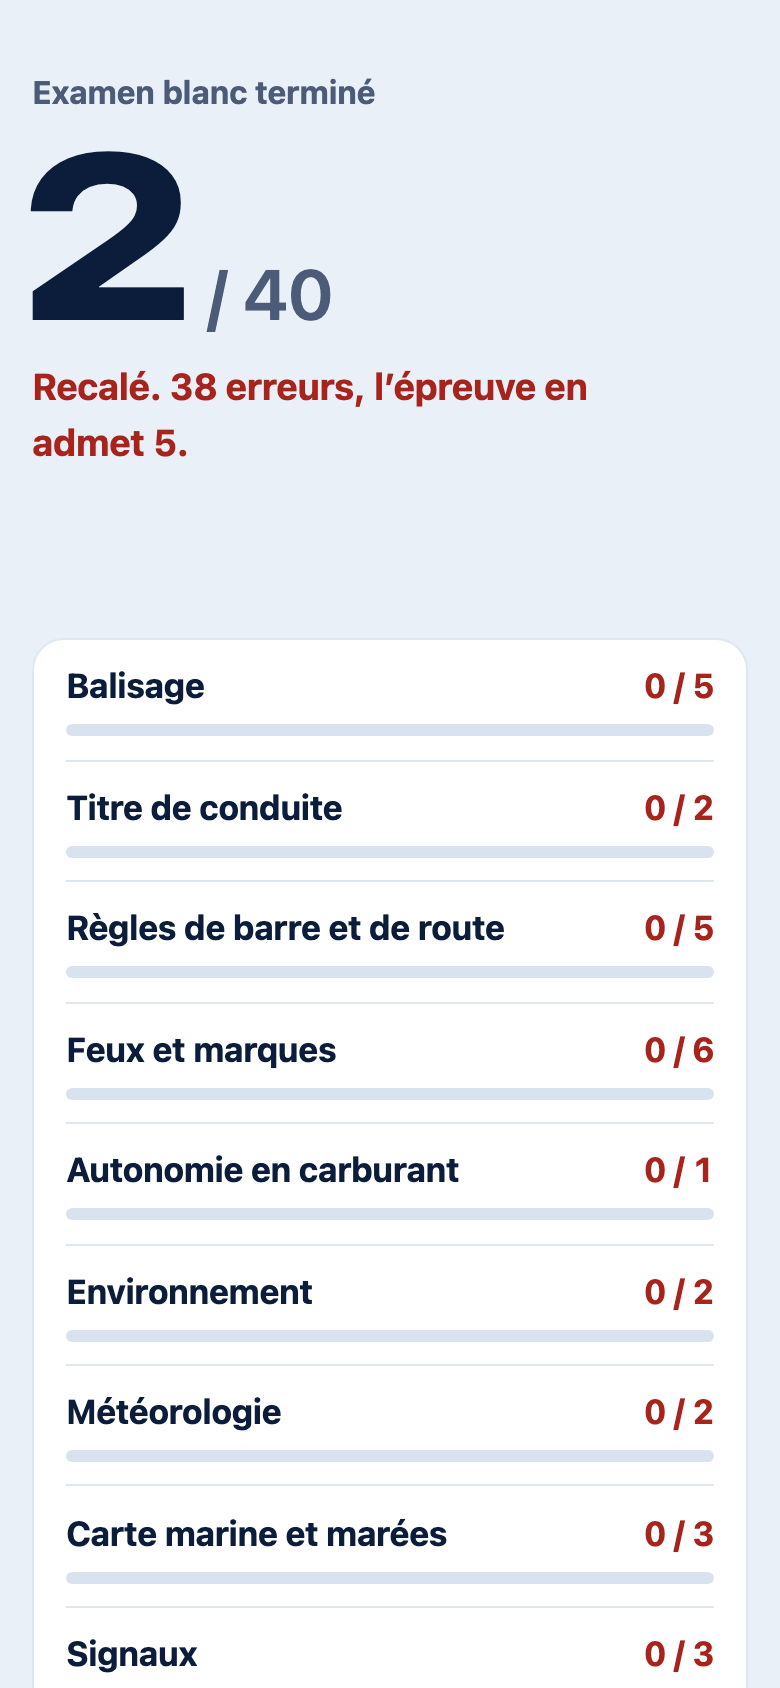
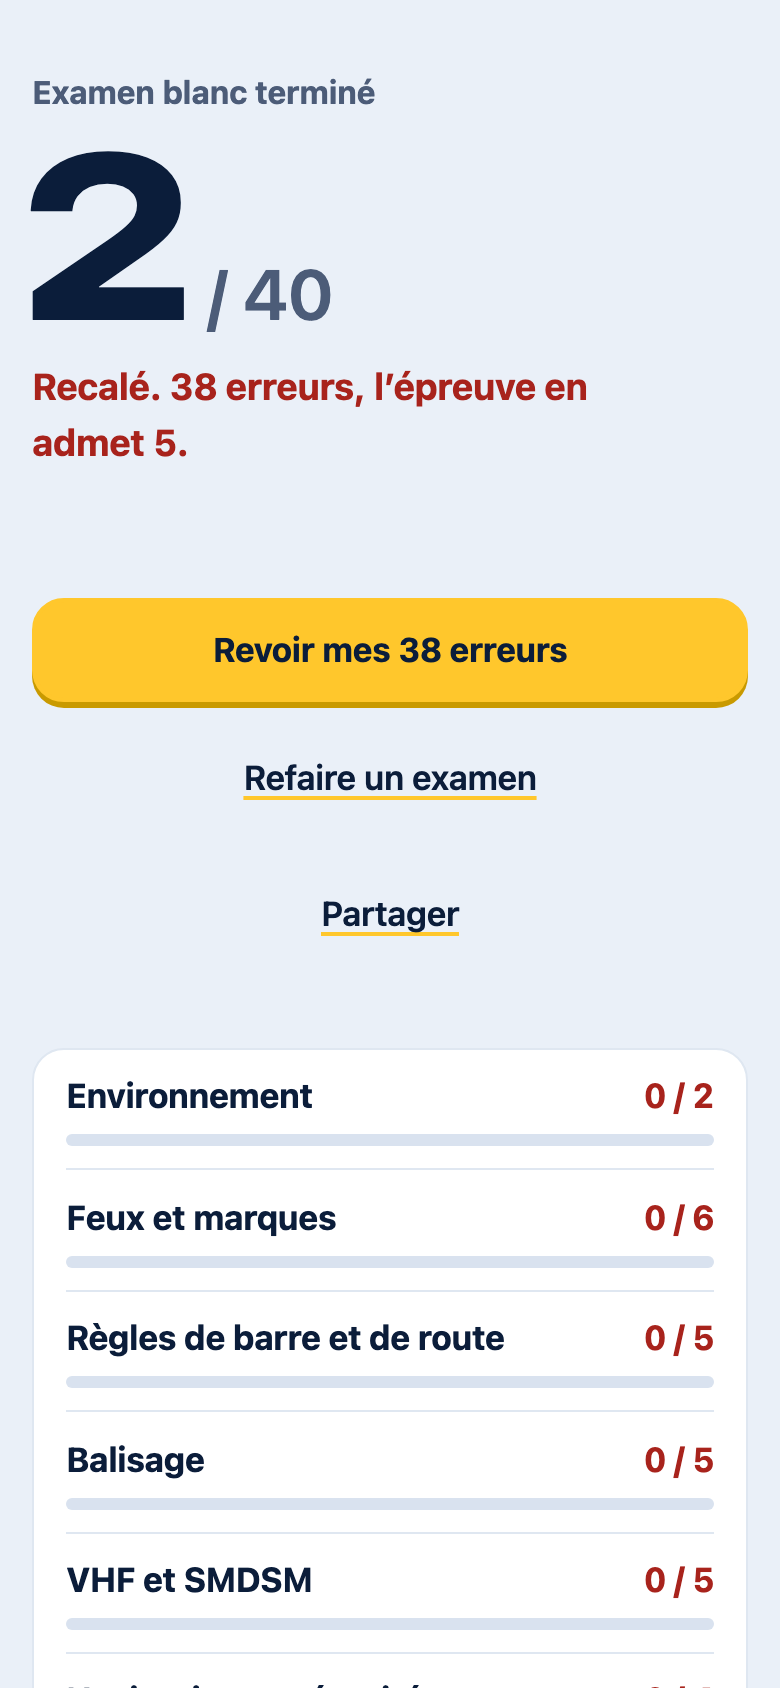
Revoir mes erreurs : les ids de l'examen dans le lien, titre dédié, reprise écartée, actions sous le score
layout.md (le geste suivant au-dessus du pli), feedback.md (le N du bouton est celui de la série).

diff --git a/src/components/Quiz.test.tsx b/src/components/Quiz.test.tsx
@@ -1650,7 +1650,7 @@ describe('le résultat d’un examen recalé, dans l’app', () => {
     jouer(6);
     expect(screen.getByText(/Recalé/)).toBeTruthy();
     const revoir = screen.getByRole('link', { name: 'Revoir mes 6 erreurs' });
-    expect(revoir.getAttribute('href')).toBe('/revoir?examen');
+    expect(revoir.getAttribute('href')).toMatch(/^\/revoir\?examen=ecluses-/);
     expect(revoir.className).toContain('bouton--principal');
     const refaire = screen.getByRole('link', { name: 'Refaire un examen' });
     expect(refaire.className).not.toContain('bouton--principal');
@@ -1678,33 +1678,110 @@ describe('le résultat d’un examen recalé, dans l’app', () => {
     expect(screen.getByRole('button', { name: 'Partager' })).toBeTruthy();
   });
 
+  it('remonte les actions sous le score, avant la carte des thèmes, reçu comme recalé', () => {
+    for (const fausses of [6, 2]) {
+      jouer(fausses);
+      const actions = document.querySelector('.resultat__actions')!;
+      const carte = document.querySelector('.parTheme')!;
+      const recap = document.querySelector('.recap')!;
+      expect(actions.compareDocumentPosition(carte) & Node.DOCUMENT_POSITION_FOLLOWING).toBeTruthy();
+      expect(carte.compareDocumentPosition(recap) & Node.DOCUMENT_POSITION_FOLLOWING).toBeTruthy();
+      cleanup();
+    }
+  });
+
   it('garde le partage sous un examen recalé', () => {
     jouer(6);
     expect(screen.getByRole('button', { name: 'Partager' })).toBeTruthy();
   });
 });
 
-describe('/revoir?examen joue toutes les erreurs du jour', () => {
+describe('/revoir?examen joue les erreurs de l’examen, et elles seules', () => {
   afterEach(() => window.history.pushState({}, '', '/'));
 
-  it('au-delà du rythme, et avant le retard', () => {
-    const toutes = Array.from({ length: 6 }, (_, i) => question(`ecluses-000${i + 1}`));
-    const aujourd = new Date().toLocaleDateString('sv-SE', { timeZone: 'Europe/Paris' });
-    const etat: Record<string, unknown> = {};
-    // Un retard ancien sur la 1, des erreurs du jour sur les 2 à 5.
-    etat['ecluses-0001'] = { vues: 1, ratees: 1, derniereReussie: false, vueLe: '2026-01-01', succes: 0, revoirLe: '2026-01-01' };
-    for (const x of toutes.slice(1, 5)) {
-      etat[x.id] = { vues: 1, ratees: 1, derniereReussie: false, vueLe: aujourd, succes: 0, revoirLe: aujourd };
-    }
+  const toutes = Array.from({ length: 6 }, (_, i) => question(`ecluses-000${i + 1}`));
+  const jour = new Date().toLocaleDateString('sv-SE', { timeZone: 'Europe/Paris' });
+  const ratee = (vueLe: string) => ({ vues: 1, ratees: 1, derniereReussie: false, vueLe, succes: 0, revoirLe: vueLe });
+
+  function semer(etat: Record<string, unknown>, enCoursSerie: unknown = null) {
     localStorage.setItem(
       CLE_STOCKAGE,
       JSON.stringify({
-        version: VERSION_STOCKAGE, questions: etat, examens: [], lecons: {}, activite: {}, dateExamen: null, enCours: null,
+        version: VERSION_STOCKAGE, questions: etat, examens: [], lecons: {}, activite: {}, dateExamen: null,
+        enCours: null, enCoursSerie,
         profil: { prenom: '', motivations: [], phrase: '', depart: null, rythme: 2, rempliLe: null },
       }),
     );
-    window.history.pushState({}, '', '/revoir?examen');
+  }
+
+  it('joue les ids du lien, au-delà du rythme, sans une erreur d’entraînement du même jour', () => {
+    // 0006 est une erreur d'entraînement d'aujourd'hui, 0001 un vieux retard.
+    semer({ 'ecluses-0001': ratee('2026-01-01'), 'ecluses-0006': ratee(jour) });
+    window.history.pushState({}, '', '/revoir?examen=ecluses-0002,ecluses-0003,ecluses-0004,ecluses-0005,inconnue-9');
     render(<Quiz mode="entrainement" questions={toutes} revoir />);
     expect(document.querySelector('.jeu__compteur')?.textContent).toBe('Question 1 sur 4');
+    expect(screen.getByText('Énoncé de ecluses-0002')).toBeTruthy();
+  });
+
+  it('titre l’écran de ce qu’on joue', () => {
+    semer({});
+    window.history.pushState({}, '', '/revoir?examen=ecluses-0002');
+    render(<Quiz mode="entrainement" questions={toutes} revoir />);
+    expect(screen.getByRole('heading', { level: 1 }).textContent).toBe('Tes erreurs de l’examen');
+  });
+
+  it('retombe sur la série du jour quand aucun id ne reste', () => {
+    semer({ 'ecluses-0001': ratee('2026-01-01') });
+    window.history.pushState({}, '', '/revoir?examen=inconnue-9');
+    render(<Quiz mode="entrainement" questions={toutes} revoir />);
+    expect(screen.getByRole('heading', { level: 1 }).textContent).toBe('Ta série du jour');
+    expect(screen.getByText('Énoncé de ecluses-0001')).toBeTruthy();
+  });
+
+  it('n’offre pas la reprise d’une série ordinaire arrêtée, et part sur les erreurs', () => {
+    const arretee = {
+      mode: 'entrainement', theme: '/revoir', ids: ['ecluses-0001', 'ecluses-0002', 'ecluses-0003'],
+      index: 2, selections: [[], [], []], echeance: null, journal: [], majLe: Date.now(),
+    };
+    semer({ 'ecluses-0001': ratee('2026-01-01') }, arretee);
+    window.history.pushState({}, '', '/revoir?examen=ecluses-0005,ecluses-0006');
+    render(<Quiz mode="entrainement" questions={toutes} revoir />);
+    expect(screen.queryByText(/Tu avais une série en cours/)).toBeNull();
+    expect(screen.getByText('Énoncé de ecluses-0005')).toBeTruthy();
+  });
+
+  it('garde la reprise d’une série ordinaire sur /revoir tout court', () => {
+    const arretee = {
+      mode: 'entrainement', theme: '/revoir', ids: ['ecluses-0001', 'ecluses-0002', 'ecluses-0003'],
+      index: 2, selections: [[], [], []], echeance: null, journal: [], majLe: Date.now(),
+    };
+    semer({ 'ecluses-0001': ratee('2026-01-01') }, arretee);
+    render(<Quiz mode="entrainement" questions={toutes} revoir />);
+    expect(screen.getByText(/Tu avais une série en cours/)).toBeTruthy();
+  });
+
+  it('le N du bouton est le nombre de questions jouées, une erreur d’entraînement du jour mêlée', () => {
+    cible.app = true;
+    try {
+      // Une erreur d'entraînement du jour sur 0008 : elle ne doit pas gonfler la série.
+      const huit = Array.from({ length: 8 }, (_, i) => question(`ecluses-000${i + 1}`));
+      semer({ 'ecluses-0008': ratee(jour) });
+      render(<Quiz mode="examen" questions={huit} />);
+      fireEvent.click(screen.getByRole('button', { name: /Commencer l’examen/ }));
+      for (let i = 0; i < 8; i++) {
+        fireEvent.click(screen.getByRole('button', { name: /Deuxième proposition/ }));
+        fireEvent.click(screen.getByRole('button', { name: /^(Passer|Valider et passer)$/ }));
+      }
+      const lien = screen.getByRole('link', { name: /^Revoir mes \d+ erreurs$/ });
+      const n = Number(/\d+/.exec(lien.textContent ?? '')![0]);
+      const href = lien.getAttribute('href')!;
+      cleanup();
+      window.history.pushState({}, '', href);
+      cible.app = false;
+      render(<Quiz mode="entrainement" questions={huit} revoir />);
+      expect(document.querySelector('.jeu__compteur')?.textContent).toBe(`Question 1 sur ${n}`);
+    } finally {
+      cible.app = false;
+    }
   });
 });

diff --git a/src/components/Quiz.tsx b/src/components/Quiz.tsx
@@ -1,7 +1,7 @@
 import { useCallback, useEffect, useMemo, useReducer, useRef, useState } from 'react';
 import { creerSession, questionCourante, reduire, restaurerSession } from '../lib/session';
 import type { Action, Mode, Session } from '../lib/session';
-import { aleaSeme, erreursDuJour, estDue, serieCourte, serieDuJour, tirerExamen, TAILLE_SERIE_COURTE } from '../lib/quiz';
+import { aleaSeme, erreursDeLExamen, estDue, questionsParIds, serieCourte, serieDuJour, tirerExamen, TAILLE_SERIE_COURTE } from '../lib/quiz';
 import { melangerPropositions } from '../lib/melange';
 import { charger, aujourdhui, CLE_STOCKAGE } from '../lib/progression';
 import type { QuestionAffichable } from '../lib/banque';
@@ -91,22 +91,25 @@ function Partie({
 
   // Le tirage se fait au montage, côté navigateur : chaque visite est un
   // examen différent, et le HTML servi reste le même pour tout le monde.
+  // Lues une fois : l'adresse ne change pas pendant la série.
+  const [erreursExamen] = useState(() => (revoir ? erreursDeLExamen(window.location.search) : null));
+  const surLesErreurs = useMemo(
+    () => revoir && erreursExamen !== null && questionsParIds(questions, erreursExamen).length > 0,
+    [revoir, erreursExamen, questions],
+  );
   const serie = useMemo(() => {
     if (questions.length === 0) return [];
     if (mode === 'examen') return tirerExamen(questions, aleaSeme(Date.now() >>> 0));
     // La série du jour, bornée par le rythme choisi : ce qui est dû, puis de
     // quoi découvrir. Un seul chemin, celui que la pastille de l'accueil compte.
-    // Depuis un examen recalé (`/revoir?examen`) : ses erreurs d'abord, toutes,
-    // sans le plafond du rythme ni le retard qui les doublerait.
-    if (revoir && new URLSearchParams(window.location.search).has('examen')) {
-      const erreurs = erreursDuJour(questions, depart.questions, aujourdhui());
-      if (erreurs.length > 0) return erreurs;
-    }
+    // Depuis un examen recalé (`/revoir?examen=…`) : ses erreurs, celles du
+    // lien, toutes, sans le plafond du rythme ni le retard qui les doublerait.
+    if (surLesErreurs) return questionsParIds(questions, erreursExamen!);
     if (revoir) return serieDuJour(questions, depart.questions, aujourdhui(), depart.profil.rythme ?? undefined);
     // L'entraînement : dix questions du thème, les fragiles et les jamais
     // vues d'abord. « Encore 10 » en tire dix autres de la progression du jour.
     return serieCourte(questions, depart.questions, aleaSeme(Date.now() >>> 0));
-  }, [mode, questions, revoir, depart]);
+  }, [mode, questions, revoir, depart, erreursExamen, surLesErreurs]);
 
   // Un examen laissé en plan, s'il colle encore à la banque et n'a pas un jour.
   const reprise = useMemo(
@@ -178,19 +181,21 @@ function Partie({
   // plus souvent. Elle est rangée sous l'adresse de sa page : une série de
   // balisage ne se reprend pas sur l'écran des feux.
   const repriseSerie = useMemo(
-    () => (mode === 'entrainement' ? restaurerSession(depart.enCoursSerie, questions, mode, retourSerie) : null),
-    [mode, questions, retourSerie, depart],
+    // Sous `?examen`, la série arrêtée sous la même clé n'est pas celle qu'on
+    // vient chercher : elle attend, et le retour d'une leçon reprendra celle-ci.
+    () => (mode === 'entrainement' && !surLesErreurs ? restaurerSession(depart.enCoursSerie, questions, mode, retourSerie) : null),
+    [mode, questions, retourSerie, depart, surLesErreurs],
   );
   const [repriseEcartee, setRepriseEcartee] = useState(false);
 
   // Une série du jour sans rien de dû : elle n'est faite que de questions
   // jamais vues, et le candidat doit savoir pourquoi elles sont neuves.
-  const rienDu = revoir && !serie.some((q) => estDue(depart.questions[q.id], aujourdhui()));
+  const rienDu = revoir && !surLesErreurs && !serie.some((q) => estDue(depart.questions[q.id], aujourdhui()));
 
   const titre = mode === 'examen'
     ? 'Examen blanc'
     : revoir
-      ? 'Ta série du jour'
+      ? surLesErreurs ? 'Tes erreurs de l’examen' : 'Ta série du jour'
       : notion
         ? `Entraînement, ${notion.nom}`
         : `Entraînement, ${nomDuTheme(theme ?? '')}`;

diff --git a/src/components/quiz/Resultat.tsx b/src/components/quiz/Resultat.tsx
@@ -3,7 +3,7 @@ import type React from 'react';
 import type { QuestionAffichable } from '../../lib/banque';
 import type { Etat } from '../../lib/progression';
 import { lenteurs, type Mode, type Session } from '../../lib/session';
-import { ERREURS_ADMISES } from '../../lib/quiz';
+import { ERREURS_ADMISES, lienErreursExamen } from '../../lib/quiz';
 import { nomDuTheme } from '../../lib/themes-client';
 import { pointFinal, rappel } from '../../lib/raison';
 import { POUR_APP } from '../../lib/cible';
@@ -55,7 +55,7 @@ export default function Resultat({ mode, session, titre, depart, parId, retour, 
   const raison = coupDeMou ? rappel(depart.profil) : null;
   // Un examen mené au bout et recalé : l'app envoie sur les erreurs.
   const recale = mode === 'examen' && !session.interrompu && r.total > 0 && !r.reussi;
-  const actions = { mode, session, retour, revue, basculerRevue, ratees: erreurs };
+  const actions = { mode, session, retour, revue, basculerRevue, ratees: erreurs, recale: recale && erreurs > 0 };
 
   return (
     <div className="jeu">
@@ -93,15 +93,13 @@ export default function Resultat({ mode, session, titre, depart, parId, retour, 
         </>
       ) : (
         <>
+          {/* Dans l'app, le geste suivant vient sous le score, avant la carte
+              des thèmes : sinon il tombe sous le pli (layout.md). Le
+              récapitulatif reste après, chaque ligne s'ouvre. */}
+          {POUR_APP && <ActionsApp {...actions} />}
           {r.total > 0 && <ParTheme parTheme={r.parTheme} />}
-
-          {/* Dans l'app, le récapitulatif tient la place de « Revoir mes
-              erreurs » : chaque ligne s'ouvre, et les erreurs y sont. */}
           {POUR_APP ? (
-            <>
-              <ActionsApp {...actions} />
-              <Recap session={session} parId={parId} retourLecon={retourLecon} erreursSeules={recale} />
-            </>
+            <Recap session={session} parId={parId} retourLecon={retourLecon} erreursSeules={recale} />
           ) : (
             <ActionsSite {...actions} />
           )}
@@ -276,6 +274,8 @@ interface PropsActions {
   basculerRevue: (quoi: 'erreurs' | 'toutes') => void;
   /** Combien de questions ont été ratées. */
   ratees: number;
+  /** Un examen mené au bout et recalé : le geste suivant, ce sont les erreurs. */
+  recale: boolean;
 }
 
 /**
@@ -283,16 +283,15 @@ interface PropsActions {
  * récapitulatif dessous, et la barre d'onglets est revenue : un lien
  * « Accueil » la doublerait.
  */
-function ActionsApp({ mode, session, retour, ratees }: PropsActions) {
+function ActionsApp({ mode, session, retour, ratees, recale }: PropsActions) {
   const r = session.resultat!;
   // Recalé : les erreurs viennent d'entrer dans la file de révision, c'est
   // là que « Revoir » mène ; refaire un examen attend (feedback.md).
-  const recale = mode === 'examen' && !session.interrompu && r.total > 0 && !r.reussi && ratees > 0;
   return (
     <>
       <div className="jeu__actions resultat__actions">
         {recale && (
-          <a className="bouton bouton--principal" href="/revoir?examen">
+          <a className="bouton bouton--principal" href={lienErreursExamen(r.ratees)}>
             {ratees > 1 ? `Revoir mes ${ratees} erreurs` : 'Revoir mon erreur'}
           </a>
         )}

diff --git a/src/lib/quiz.test.ts b/src/lib/quiz.test.ts
@@ -10,7 +10,9 @@ import {
   calculerResultat,
   ordonnerEntrainement,
   serieDuJour,
-  erreursDuJour,
+  erreursDeLExamen,
+  lienErreursExamen,
+  questionsParIds,
   serieCourte,
   TAILLE_SERIE_COURTE,
   INTERVALLES,
@@ -471,26 +473,26 @@ describe('série du jour', () => {
   });
 });
 
-describe('les erreurs du jour', () => {
-  const etat = (vueLe: string, derniereReussie: boolean, revoirLe: string) => ({
-    vues: 1, ratees: derniereReussie ? 0 : 1, derniereReussie, vueLe, succes: derniereReussie ? 1 : 0, revoirLe,
-  });
-  const questions = Array.from({ length: 30 }, (_, i) => q(`ecluses-${String(i + 1).padStart(4, '0')}`, 'ecluses'));
+describe('les erreurs d’un examen dans le lien', () => {
+  const questions = Array.from({ length: 40 }, (_, i) => q(`ecluses-${String(i + 1).padStart(4, '0')}`, 'ecluses'));
 
-  it('rend toutes les erreurs d’aujourd’hui, au-delà du rythme', () => {
-    const progression: Progression = {};
-    for (const x of questions.slice(0, 26)) progression[x.id] = etat('2026-10-23', false, '2026-10-23');
-    expect(erreursDuJour(questions, progression, '2026-10-23')).toHaveLength(26);
-    // La série du jour, elle, s'arrête au rythme : c'est ce que ce tri évite.
-    expect(serieDuJour(questions, progression, '2026-10-23')).toHaveLength(TAILLE_SERIE_PAR_DEFAUT);
+  it('fait l’aller-retour', () => {
+    const lien = lienErreursExamen(['ecluses-0003', 'ecluses-0001']);
+    expect(lien).toBe('/revoir?examen=ecluses-0003,ecluses-0001');
+    expect(erreursDeLExamen(lien.slice(lien.indexOf('?')))).toEqual(['ecluses-0003', 'ecluses-0001']);
   });
 
-  it('laisse dehors le retard, les réussites et les erreurs d’un autre jour', () => {
-    const progression: Progression = {
-      'ecluses-0001': etat('2026-10-23', false, '2026-10-23'),
-      'ecluses-0002': etat('2026-10-20', false, '2026-10-20'),
-      'ecluses-0003': etat('2026-10-23', true, '2026-10-24'),
-    };
-    expect(erreursDuJour(questions, progression, '2026-10-23').map((x) => x.id)).toEqual(['ecluses-0001']);
+  it('reste raisonnable à quarante erreurs', () => {
+    expect(lienErreursExamen(questions.map((x) => x.id)).length).toBeLessThan(600);
+  });
+
+  it('rend null sans paramètre', () => {
+    expect(erreursDeLExamen('')).toBeNull();
+    expect(erreursDeLExamen('?retour=%2Frevoir')).toBeNull();
+  });
+
+  it('joue ces questions-là et pas d’autres, en ignorant les inconnues et les doublons', () => {
+    const joues = questionsParIds(questions, ['ecluses-0005', '<b>', 'ecluses-0002', 'ecluses-0005']);
+    expect(joues.map((x) => x.id)).toEqual(['ecluses-0005', 'ecluses-0002']);
   });
 });

diff --git a/src/lib/quiz.ts b/src/lib/quiz.ts
@@ -414,21 +414,21 @@ export function serieDuJour<T extends QuestionRangeable>(
   return [...dues, ...neuves].slice(0, taille);
 }
 
+/** Le lien d'« Revoir mes erreurs » : les ratées de l'examen, par identifiant. */
+export const lienErreursExamen = (ids: readonly string[]): string => `/revoir?examen=${ids.join(',')}`;
+
+/** Les identifiants que porte `?examen=…`, ou `null` sans le paramètre. */
+export const erreursDeLExamen = (recherche: string): string[] | null =>
+  new URLSearchParams(recherche).get('examen')?.split(',') ?? null;
+
 /**
- * Les erreurs du jour, toutes, sans plafond de rythme : ce que « Revoir mes
- * erreurs » joue après un examen blanc. `serieDuJour` range le retard avant
- * elles et la borne au rythme choisi, si bien que vingt-six erreurs
- * fraîches pouvaient en jouer vingt, ou aucune derrière un arriéré. Une
- * erreur d'examen est écrite comme n'importe quelle autre : ratée aujourd'hui,
- * donc due aujourd'hui.
+ * Ce que « Revoir mes erreurs » joue : les ratées de l'examen, toutes, dans
+ * l'ordre du lien, sans le plafond du rythme que `serieDuJour` applique ni le
+ * retard qu'elle range devant. La requête vient de l'extérieur, mais elle ne
+ * fait que désigner des questions de la banque : ce qui n'y est pas, un
+ * doublon, est ignoré.
  */
-export function erreursDuJour<T extends QuestionRangeable>(
-  questions: readonly T[],
-  progression: Progression,
-  jour: string,
-): T[] {
-  return questions.filter((q) => {
-    const e = progression[q.id];
-    return e !== undefined && !e.derniereReussie && e.vueLe === jour && estDue(e, jour);
-  });
+export function questionsParIds<T extends QuestionRangeable>(questions: readonly T[], ids: readonly string[]): T[] {
+  const parId = new Map(questions.map((q) => [q.id, q]));
+  return [...new Set(ids)].flatMap((id) => parId.get(id) ?? []);
 }

diff --git a/docs/app-da.md b/docs/app-da.md
@@ -215,10 +215,13 @@ barre d'onglets.
   discret, le bouton « Continuer » reste dans la feuille. Le panneau anime
   `transform` et `opacity`, 220 ms, easing sobre.
 - Résultat : le score en très grand (Archivo, c'est un grand chiffre), le
-  verdict écrit, les notes par thème dans une carte. Examen recalé : « Revoir mes N erreurs »
-  (jaune, vers `/revoir?examen`, qui joue toutes les erreurs du jour sans le plafond du rythme),
-  « Refaire un examen » (discret), partage natif, puis le récapitulatif **réduit aux erreurs**
-  (« Voir les 40 questions » les déplie). Examen reçu : « Refaire un examen » en jaune et les 40 lignes.
+  verdict écrit, puis **les actions sous le score, avant la carte** (sinon le bouton tombe sous le pli),
+  puis les notes par thème dans une carte, puis le récapitulatif. Examen recalé : « Revoir mes N erreurs »
+  (jaune, vers `/revoir?examen=<ids>` : les ratées de l'examen, par identifiant, N exact ; l'écran s'y
+  titre « Tes erreurs de l'examen », ignore une série ordinaire arrêtée et joue toutes les erreurs sans
+  le plafond du rythme), « Refaire un examen » (discret), partage natif ; le récapitulatif est **réduit
+  aux erreurs** (« Voir les 40 questions » les déplie). Examen reçu : même ordre, « Refaire un examen »
+  en jaune et les 40 lignes.
 
 ### Fiche (`/profil`)
 

diff --git a/docs/budgets.md b/docs/budgets.md
@@ -13,7 +13,7 @@ Décidées le 10 octobre 2026 (plan « app solide », décision 5), posées au l
 {
   "lignesParFichier": 600,
   "pourAppDansLesComposants": 40,
-  "examen": { "reference": 86194, "marge": 1024 }
+  "examen": { "reference": 86240, "marge": 1024 }
 }
 ```
 
@@ -50,3 +50,5 @@ la fiche entière ni la table des notions, −11,9 Ko ; les badges en reprennent
 npm run build                       # dist/ d'abord
 node scripts/verifier-budgets.mjs   # 0 = dans les budgets
 ```
+
+**Relevé le 23 octobre 2026** (86194 → 86240, +46 octets) : le libellé « Passer » et le lien « Revoir mes erreurs » (`lienErreursExamen`, `questionsParIds`) sont dans le composant partagé avec le site.

diff --git a/docs/captures-ux-apres-examen/README.md b/docs/captures-ux-apres-examen/README.md
@@ -1,0 +1,3 @@
+Lot B, `dist-app/` servi, Chromium headless 390 × 844, clair et sombre ; `grand-*` à corps 28 px.
+`question-passer-*` : rien coché, « Passer » ; `question-cochee-*` : une case cochée, « Valider et passer ».
+`resultat-*` et `actions-*` : actions sous le score, avant la carte ; `recap-*` : le récapitulatif ; `recale` = 38 erreurs, `recu` = 2 ou 3.
